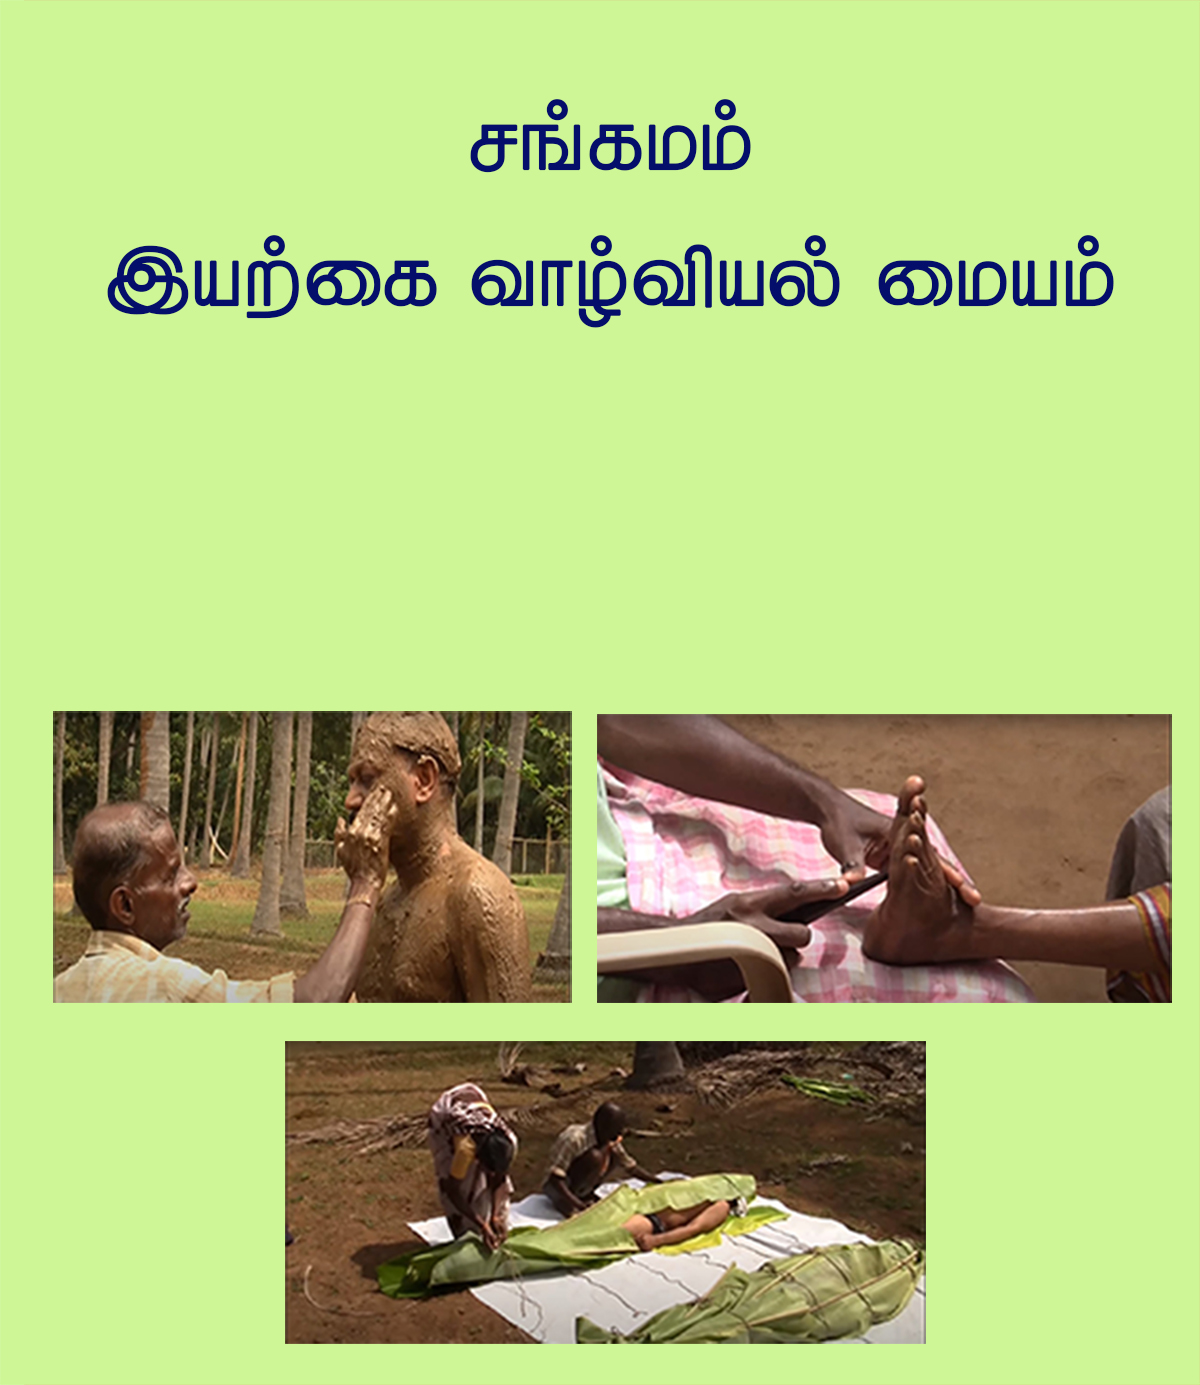
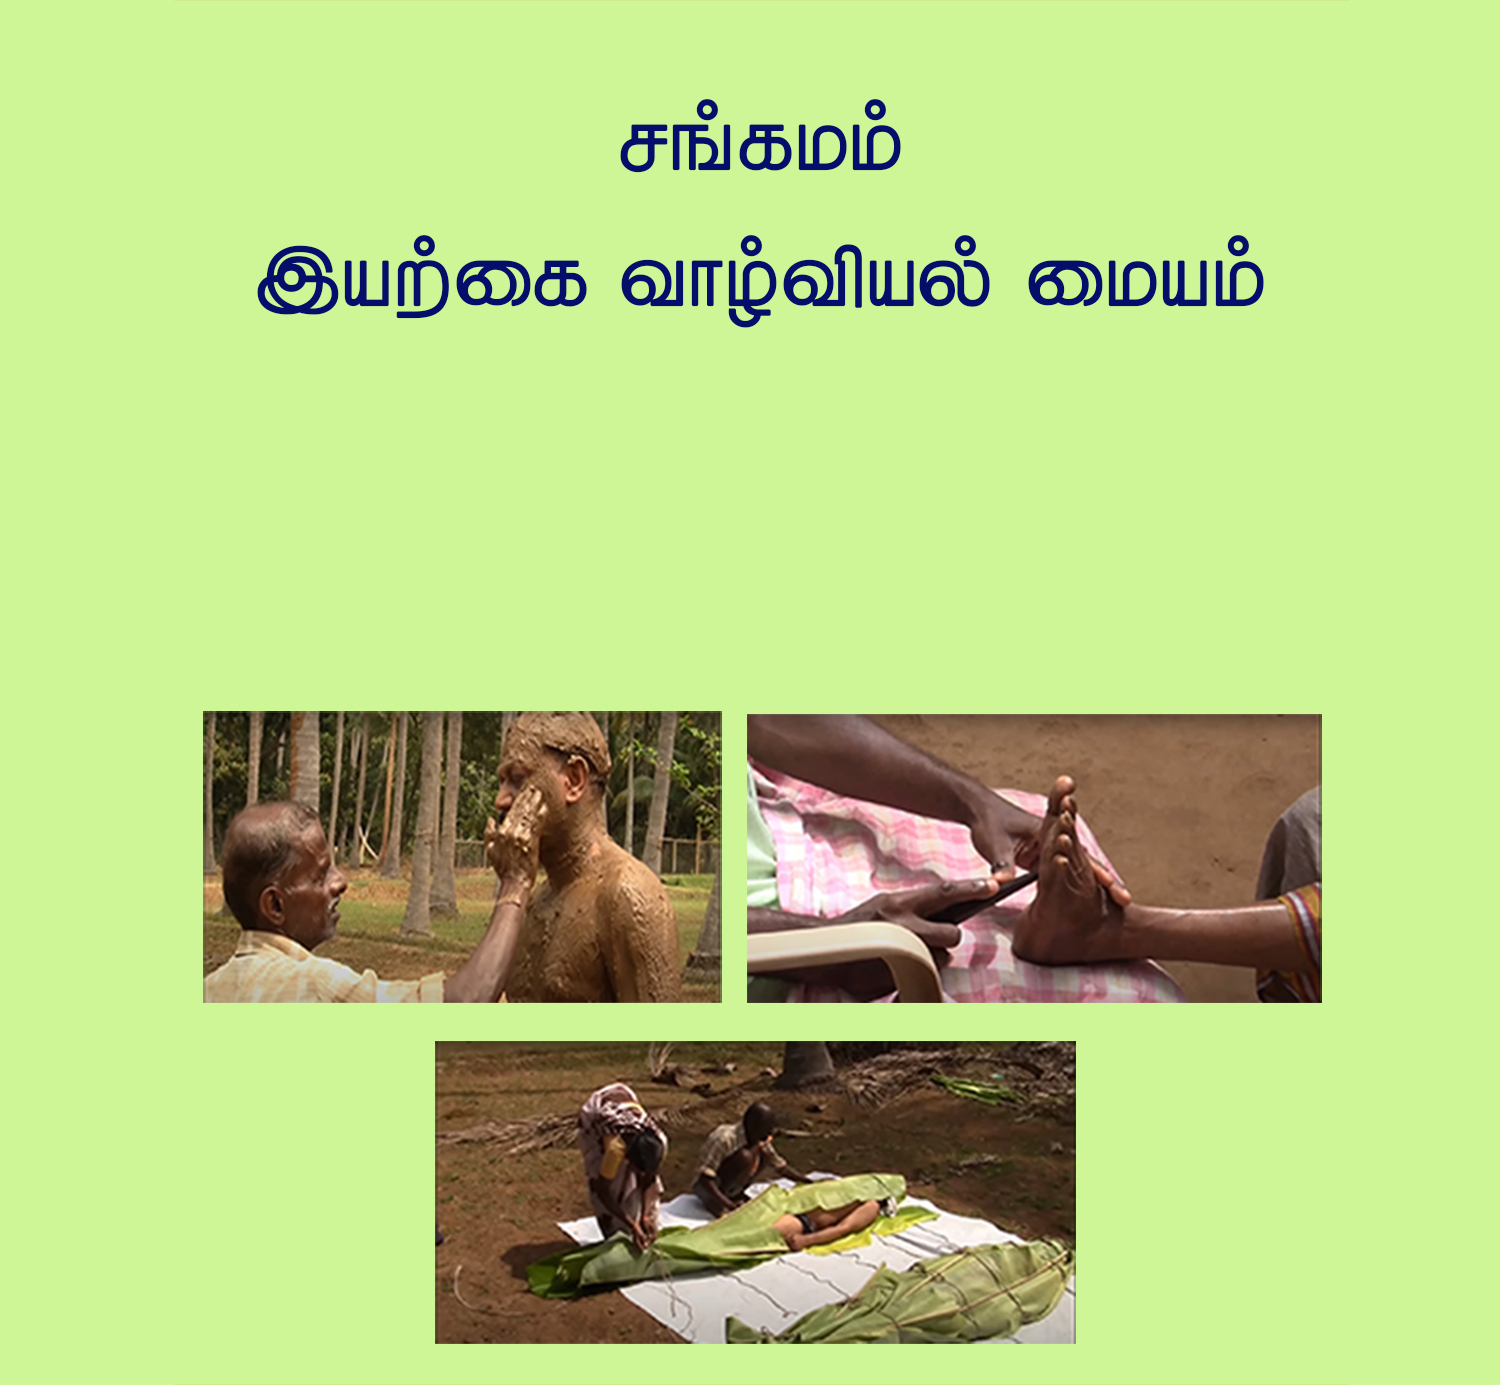
try ed style slider

Changed region(s): [[0.0308, 0.4968, 0.9867, 0.9935], [0.0925, 0.1552, 0.925, 0.2484], [0.37, 0.0621, 0.6475, 0.1242]]

diff --git a/css/tooplate-style.css b/css/tooplate-style.css
@@ -1594,7 +1594,7 @@
     .slider .item {
 
       
-      background-size: cover;
+      
      
     }
     .slider .caption {
@@ -1621,15 +1621,17 @@
   @media only screen and (max-width: 570px) {
   
     .slider .item {
-
-      background-position: center;
       
-     
+      
+      height: 400px;
     }
     .slider .caption {
       
-      height: 68% !important;
+      height: 55% !important;
      
+    }
+    .slider h3, h1{
+      display: none;
     }
 
     .slider .item-first {
@@ -1649,6 +1651,7 @@
     }
     
   }
+ 
   @media only screen and (max-width: 639px) {
     h1 {
       font-size: 3em;
